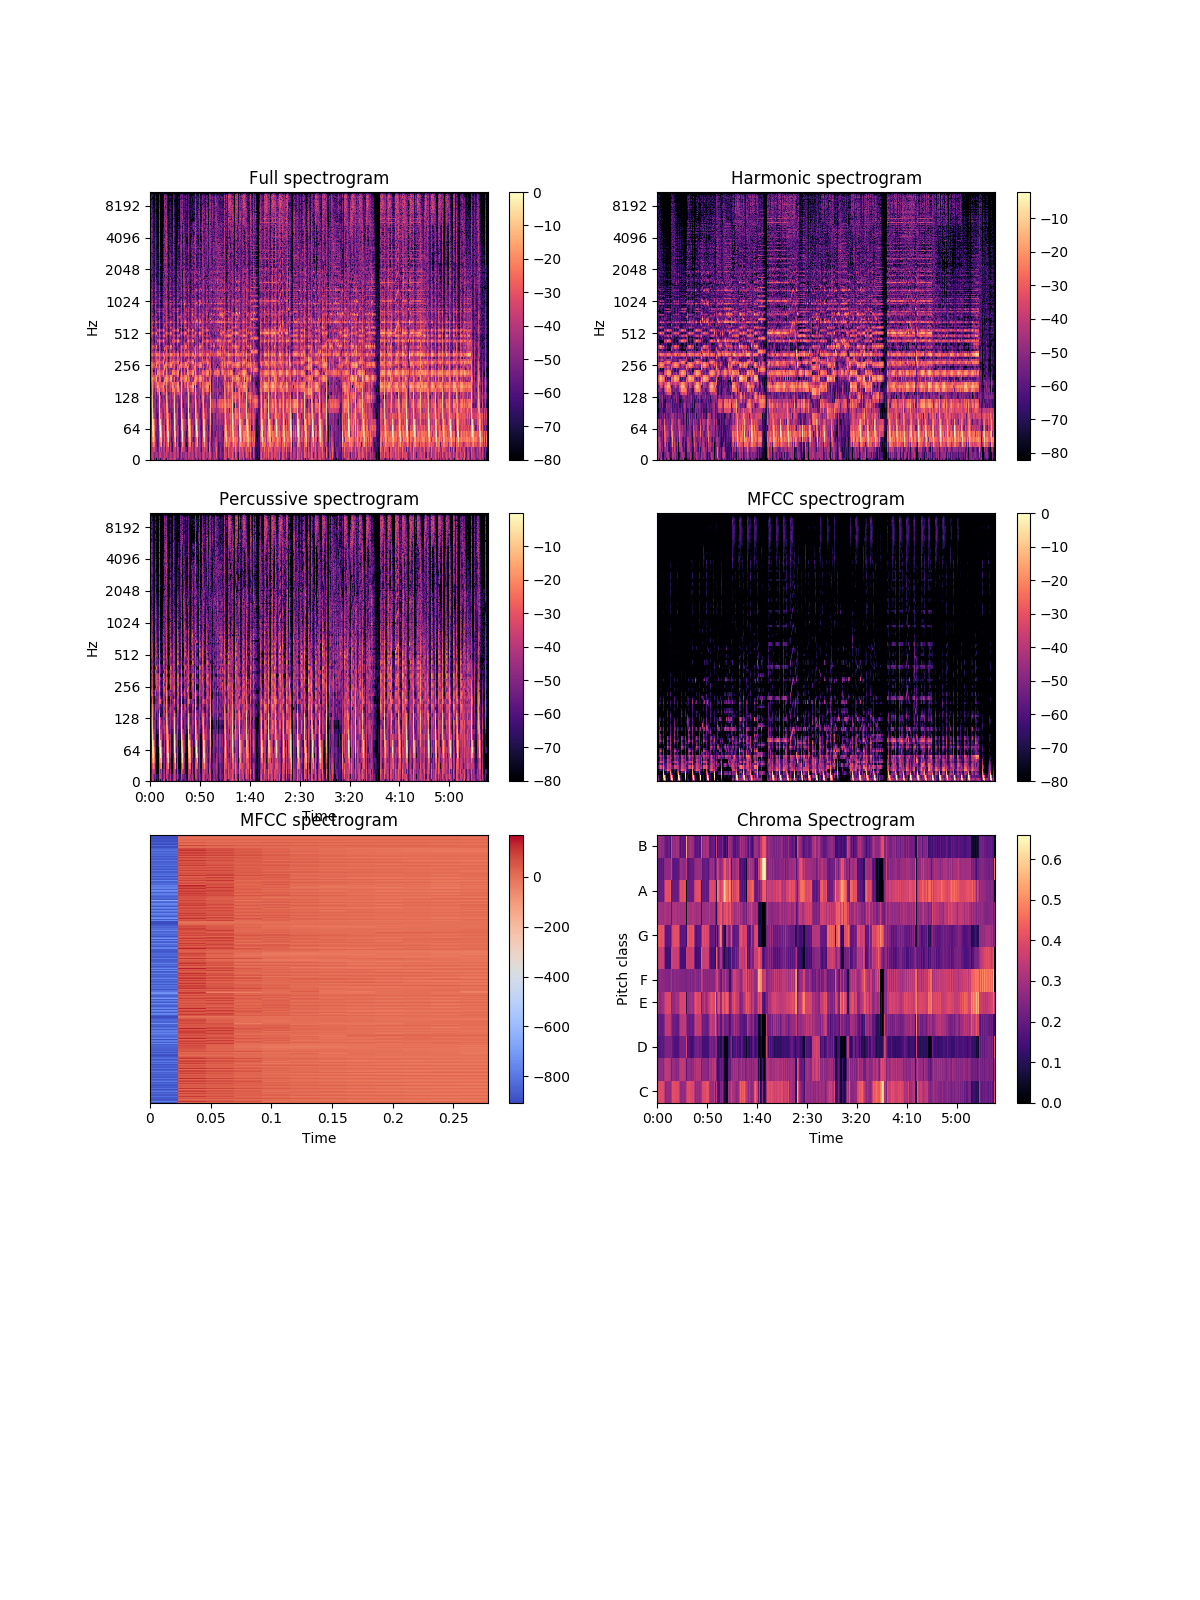
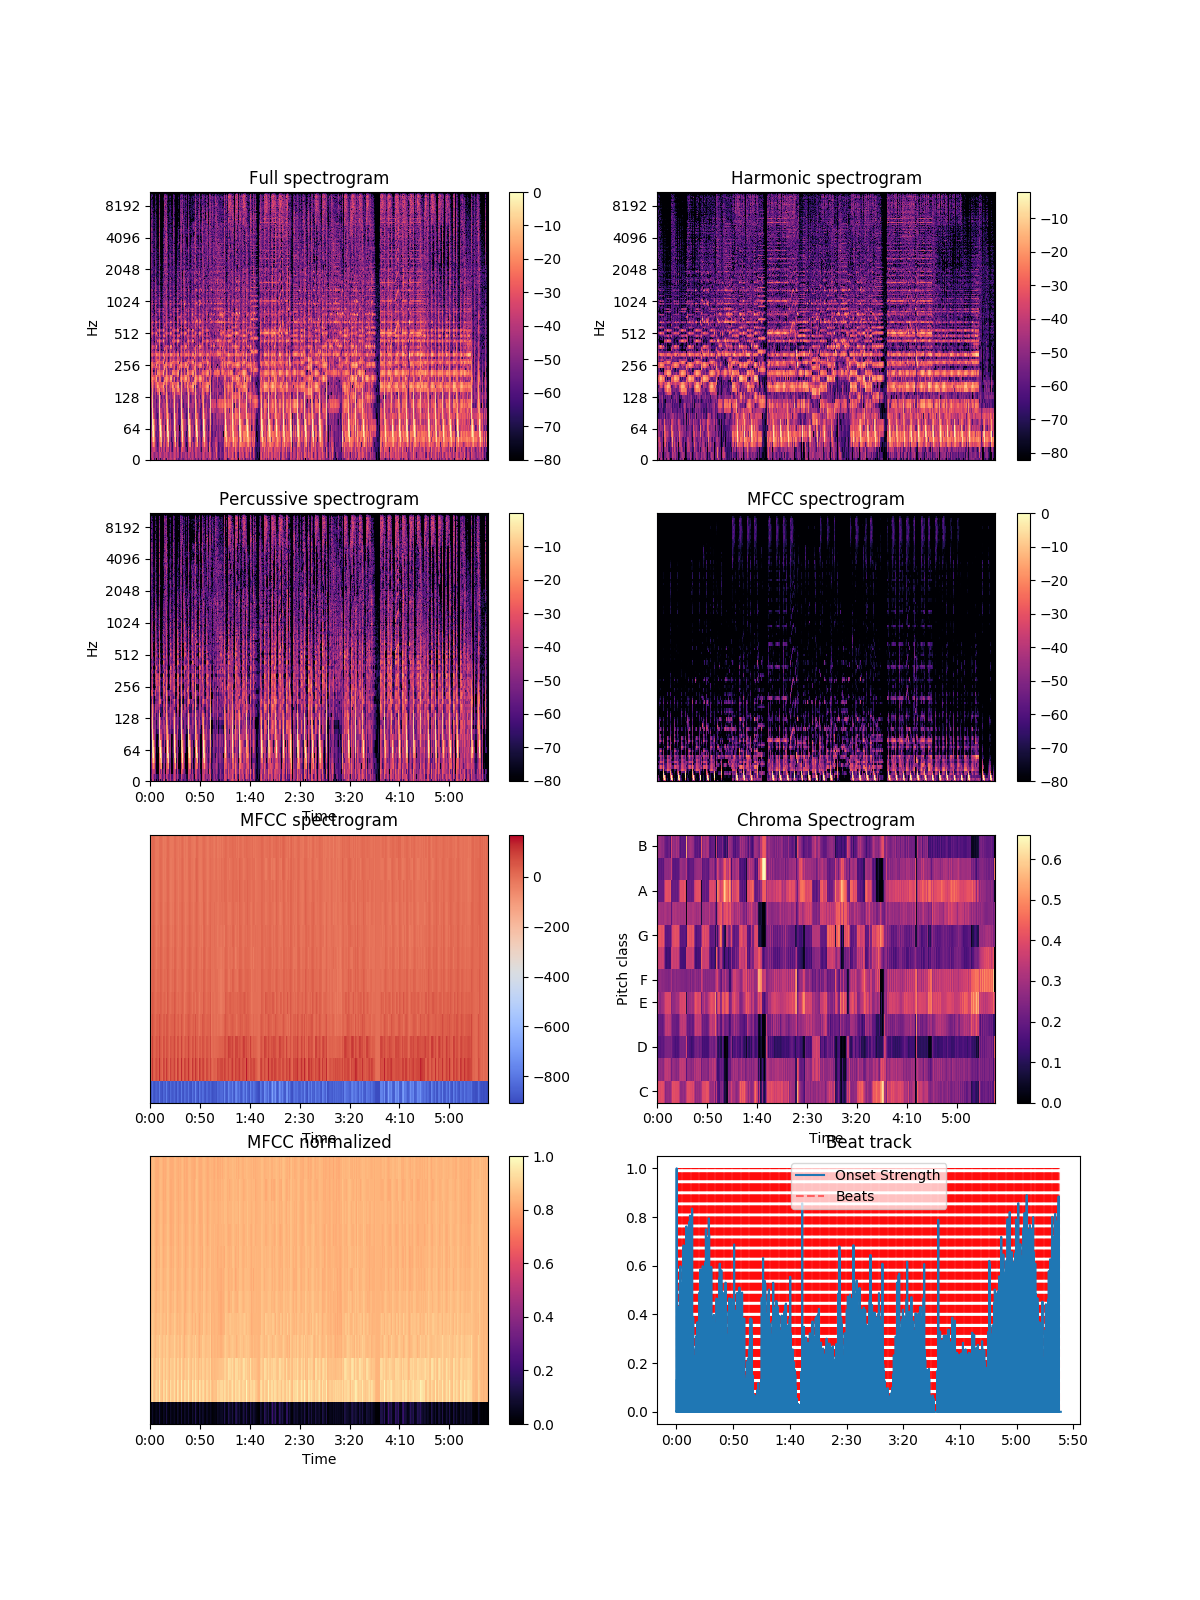
beat track

Changed region(s): [[0.1233, 0.5, 0.4625, 0.9062], [0.555, 0.7188, 0.8942, 0.9062]]

diff --git a/Snippet.py b/Snippet.py
@@ -15,17 +15,34 @@ N_MFCCS=12
 
 #audio_files to be extracted
 audio_file = ["digital_love.mp3", "pequenas_cosas.mp3","heartbeat.mp3","mindless.ogg","sines.ogg"]
+#audio_file = ["sines.ogg"]
+
+def normalize(X):
+    X += np.abs(X.min())
+    X /= X.max()
+    return X
+
+
+def compute_beats(y, sr,oe):
+
+    logging.info("Estimating Beats...")
+    tempo, beats_idx = librosa.beat.beat_track(y=y, sr=sr,
+                                               hop_length=HOP_SIZE, onset_envelope=oe)
+    return beats_idx, librosa.frames_to_time(np.arange(len(oe)), sr=sr,
+                                             hop_length=HOP_SIZE)
 
 
 
-def process_file(file):
+def process_features(file):
 
+    plt.figure(figsize=(12, 16))
     #Load audio
     try:
         logging.info("Loading file {}".format(os.path.basename(file)))
         audio, sr=librosa.load(file,sr=SAMPLING_RATE)
-    except:
+    except Exeption as e:
         logging.info("Couldn't load file {}".format(os.path.basename(file)))
+        logging.info("Error: {}".format(e))
         return
 
     #Harmonic and Precusive spectrograms
@@ -38,7 +55,6 @@ def process_file(file):
 
         D_harmonic, D_percussive = librosa.decompose.hpss(D)
         rp = np.max(np.abs(D))
-        plt.figure(figsize=(12, 16))
         plt.subplot(4, 2, 1)
         librosa.display.specshow(librosa.amplitude_to_db(np.abs(D), ref=rp), y_axis='log')
         plt.colorbar()
@@ -60,11 +76,6 @@ def process_file(file):
 
         logging.info("Percussive spectrogram: done")
 
-    except:
-        logging.info("Failed to generate spectrograms for {}".format(os.path.basename(file)))
-    try:
-        logging.info("Computing MFCC spectrogram")
-
         features={}
         S= librosa.feature.melspectrogram(audio,sr=sr,n_fft=FFT_SIZE, hop_length=HOP_SIZE, n_mels=N_MELS)
         plt.subplot(4, 2, 4)
@@ -73,13 +84,15 @@ def process_file(file):
         plt.colorbar()
         plt.title('MFCC spectrogram')
 
-        logging.info("Generated spectrograms for {}".format(os.path.basename(file)))
+        logging.info("MFCC spectrogram: done")
 
-        features["sequence"] =librosa.feature.mfcc(S=log_S, n_mfcc=N_MFCCS).T
+        features["sequence"] =librosa.feature.mfcc(S=log_S, n_mfcc=N_MFCCS)
         plt.subplot(4,2,5)
         librosa.display.specshow(features["sequence"],x_axis="time")
         plt.colorbar()
         plt.title('MFCC spectrogram')
+
+        logging.info("MFCC spectrogram: done")
 
         chroma=librosa.feature.chroma_cens(y=audio,sr=sr)
         plt.subplot(4,2,6)
@@ -87,12 +100,40 @@ def process_file(file):
         plt.colorbar()
         plt.title('Chroma Spectrogram')
 
-        plt.savefig("{}.png".format(file), box_inches='tight')
+        logging.info("Chroma spectrogram: done")
+
+        #Normalize sequence
+        features["sequence"]=normalize(features["sequence"])
+        plt.subplot(4,2,7)
+        librosa.display.specshow(features["sequence"],x_axis="time")
+        plt.colorbar()
+        plt.title('MFCC normalized')
+
+        logging.info("MFCC normalized spectrogram: done")
+        logging.info("Generated spectrograms for {}".format(os.path.basename(file)))
+
     except Exception as e:
-        raise
+        logging.info("Failed to generate spectrograms for {}".format(os.path.basename(file)))
+        logging.info("Error: {}".format(e))
 
+    try:
+        onset_env = librosa.onset.onset_strength(audio, sr=sr,aggregate=np.median)
+        features["beats_idx"], times = compute_beats(audio,sr=sr,oe=onset_env)
+        features["beats"]=times;
+        plt.subplot(4,2,8)
+        plt.plot(times,librosa.util.normalize(onset_env),label='Onset Strength')
+        plt.vlines(times[features["beats_idx"]],0,1,alpha=0.5,color='r',linestyle='--',label='Beats')
+        plt.legend(frameon=True, framealpha=0.75)
+        plt.gca().xaxis.set_major_formatter(librosa.display.TimeFormatter())
+        plt.title('Beat track')
+        logging.info("Generated beat-track")
 
+    except Exception as e:
+        logging.info("Failed Beat Estimation")
+        logging.info("Error: {}".format(e))
+
+    plt.savefig("{}.png".format(file), box_inches='tight')
 #Setup logger
 logging.basicConfig(format='%(asctime)s: %(levelname)s: %(message)s',level=logging.INFO)
 for item in audio_file:
-    process_file(item)
+    process_features(item)
